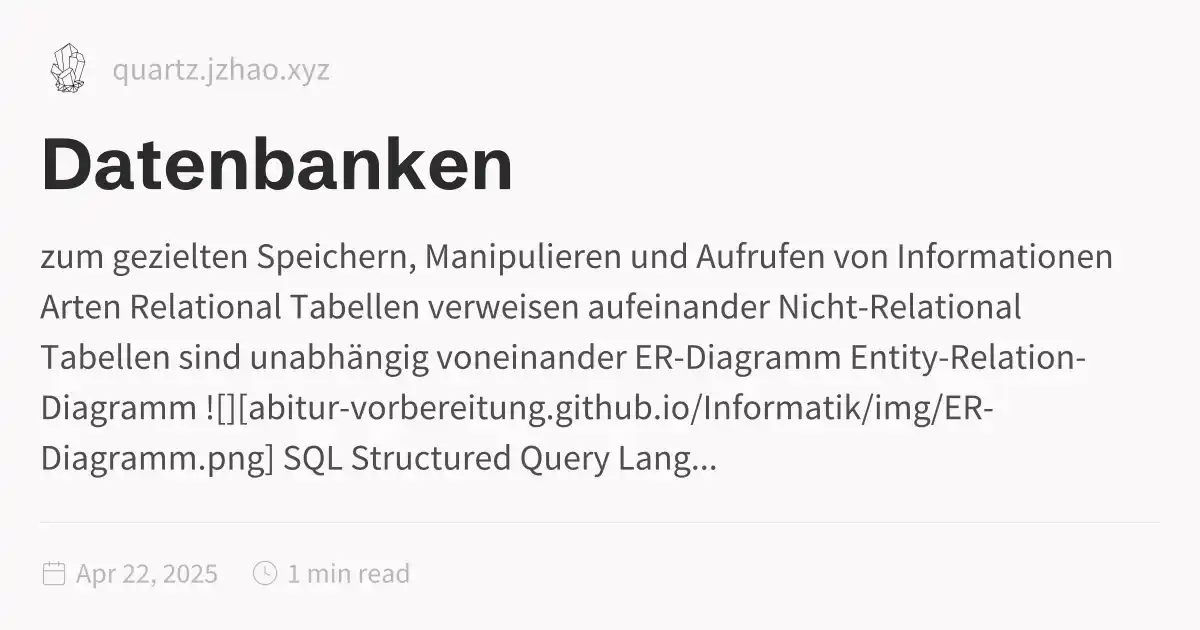
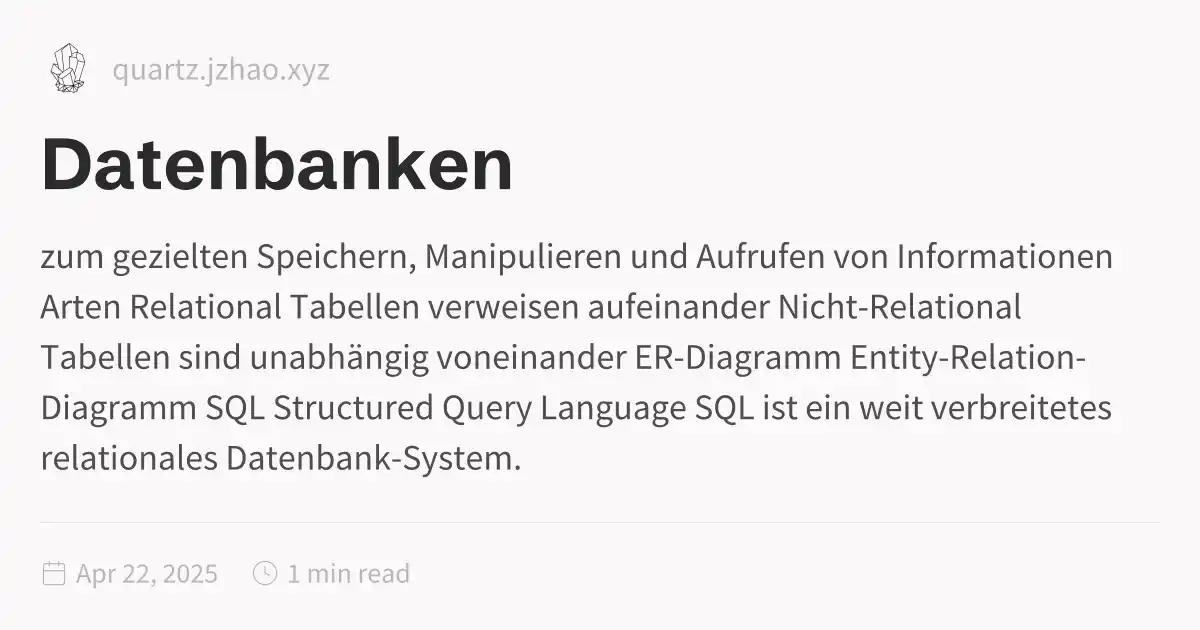
update

Changed region(s): [[0.0308, 0.6032, 0.925, 0.754]]

diff --git a/Angewandte-Informatik/index.html b/Angewandte-Informatik/index.html
@@ -116,6 +116,6 @@ pre:hover > .expand-button {
   padding: 0 12px;
   font-size: 14px;
 }
[2 lines of base64/hex data omitted]
 </script><script type="module">function f(i,e){if(!i)return;function r(o){o.target===this&&(o.preventDefault(),o.stopPropagation(),e())}function t(o){o.key.startsWith("Esc")&&(o.preventDefault(),e())}i?.addEventListener("click",r),window.addCleanup(()=>i?.removeEventListener("click",r)),document.addEventListener("keydown",t),window.addCleanup(()=>document.removeEventListener("keydown",t))}function y(i){for(;i.firstChild;)i.removeChild(i.firstChild)}var h=class{constructor(e,r){this.container=e;this.content=r;this.setupEventListeners(),this.setupNavigationControls(),this.resetTransform()}isDragging=!1;startPan={x:0,y:0};currentPan={x:0,y:0};scale=1;MIN_SCALE=.5;MAX_SCALE=3;cleanups=[];setupEventListeners(){let e=this.onMouseDown.bind(this),r=this.onMouseMove.bind(this),t=this.onMouseUp.bind(this),o=this.resetTransform.bind(this);this.container.addEventListener("mousedown",e),document.addEventListener("mousemove",r),document.addEventListener("mouseup",t),window.addEventListener("resize",o),this.cleanups.push(()=>this.container.removeEventListener("mousedown",e),()=>document.removeEventListener("mousemove",r),()=>document.removeEventListener("mouseup",t),()=>window.removeEventListener("resize",o))}cleanup(){for(let e of this.cleanups)e()}setupNavigationControls(){let e=document.createElement("div");e.className="mermaid-controls";let r=this.createButton("+",()=>this.zoom(.1)),t=this.createButton("-",()=>this.zoom(-.1)),o=this.createButton("Reset",()=>this.resetTransform());e.appendChild(t),e.appendChild(o),e.appendChild(r),this.container.appendChild(e)}createButton(e,r){let t=document.createElement("button");return t.textContent=e,t.className="mermaid-control-button",t.addEventListener("click",r),window.addCleanup(()=>t.removeEventListener("click",r)),t}onMouseDown(e){e.button===0&&(this.isDragging=!0,this.startPan={x:e.clientX-this.currentPan.x,y:e.clientY-this.currentPan.y},this.container.style.cursor="grabbing")}onMouseMove(e){this.isDragging&&(e.preventDefault(),this.currentPan={x:e.clientX-this.startPan.x,y:e.clientY-this.startPan.y},this.updateTransform())}onMouseUp(){this.isDragging=!1,this.container.style.cursor="grab"}zoom(e){let r=Math.min(Math.max(this.scale+e,this.MIN_SCALE),this.MAX_SCALE),t=this.content.getBoundingClientRect(),o=t.width/2,n=t.height/2,c=r-this.scale;this.currentPan.x-=o*c,this.currentPan.y-=n*c,this.scale=r,this.updateTransform()}updateTransform(){this.content.style.transform=`translate(${this.currentPan.x}px, ${this.currentPan.y}px) scale(${this.scale})`}resetTransform(){this.scale=1;let e=this.content.querySelector("svg");this.currentPan={x:e.getBoundingClientRect().width/2,y:e.getBoundingClientRect().height/2},this.updateTransform()}},C=["--secondary","--tertiary","--gray","--light","--lightgray","--highlight","--dark","--darkgray","--codeFont"],E;document.addEventListener("nav",async()=>{let e=document.querySelector(".center").querySelectorAll("code.mermaid");if(e.length===0)return;E||=await import("https://cdnjs.cloudflare.com/ajax/libs/mermaid/11.4.0/mermaid.esm.min.mjs");let r=E.default,t=new WeakMap;for(let n of e)t.set(n,n.innerText);async function o(){for(let s of e){s.removeAttribute("data-processed");let a=t.get(s);a&&(s.innerHTML=a)}let n=C.reduce((s,a)=>(s[a]=window.getComputedStyle(document.documentElement).getPropertyValue(a),s),{}),c=document.documentElement.getAttribute("saved-theme")==="dark";r.initialize({startOnLoad:!1,securityLevel:"loose",theme:c?"dark":"base",themeVariables:{fontFamily:n["--codeFont"],primaryColor:n["--light"],primaryTextColor:n["--darkgray"],primaryBorderColor:n["--tertiary"],lineColor:n["--darkgray"],secondaryColor:n["--secondary"],tertiaryColor:n["--tertiary"],clusterBkg:n["--light"],edgeLabelBackground:n["--highlight"]}}),await r.run({nodes:e})}await o(),document.addEventListener("themechange",o),window.addCleanup(()=>document.removeEventListener("themechange",o));for(let n=0;n<e.length;n++){let v=function(){let g=l.querySelector("#mermaid-space"),m=l.querySelector(".mermaid-content");if(!m)return;y(m);let w=c.querySelector("svg").cloneNode(!0);m.appendChild(w),l.classList.add("active"),g.style.cursor="grab",u=new h(g,m)},M=function(){l.classList.remove("active"),u?.cleanup(),u=null},c=e[n],s=c.parentElement,a=s.querySelector(".clipboard-button"),d=s.querySelector(".expand-button"),p=window.getComputedStyle(a),L=a.offsetWidth+parseFloat(p.marginLeft||"0")+parseFloat(p.marginRight||"0");d.style.right=`calc(${L}px + 0.3rem)`,s.prepend(d);let l=s.querySelector("#mermaid-container");if(!l)return;let u=null;d.addEventListener("click",v),f(l,M),window.addCleanup(()=>{u?.cleanup(),d.removeEventListener("click",v)})}});
 </script><script src="https://cdn.jsdelivr.net/npm/katex@0.16.11/dist/contrib/copy-tex.min.js" type="application/javascript"></script><script src="../postscript.js" type="module"></script></html>

diff --git a/Angewandte-Informatik/Datenbanken.html b/Angewandte-Informatik/Datenbanken.html
@@ -1,5 +1,5 @@
 <!DOCTYPE html>
-<html lang="en"><head><title>Datenbanken</title><meta charset="utf-8"/><link rel="preconnect" href="https://fonts.googleapis.com"/><link rel="preconnect" href="https://fonts.gstatic.com"/><link rel="stylesheet" href="https://fonts.googleapis.com/css2?family=Schibsted Grotesk:wght@400;700&amp;family=Source Sans Pro:ital,wght@0,400;0,600;1,400;1,600&amp;family=IBM Plex Mono:wght@400;600&amp;display=swap"/><link rel="preconnect" href="https://cdnjs.cloudflare.com" crossorigin="anonymous"/><meta name="viewport" content="width=device-width, initial-scale=1.0"/><meta name="og:site_name" content="Quartz 4"/><meta property="og:title" content="Datenbanken"/><meta property="og:type" content="website"/><meta name="twitter:card" content="summary_large_image"/><meta name="twitter:title" content="Datenbanken"/><meta name="twitter:description" content="zum gezielten Speichern, Manipulieren und Aufrufen von Informationen Arten Relational Tabellen verweisen aufeinander Nicht-Relational Tabellen sind unabhängig voneinander ER-Diagramm Entity-Relation-Diagramm ![][abitur-vorbereitung.github.io/Informatik/img/ER-Diagramm.png] SQL Structured Query Lang..."/><meta property="og:description" content="zum gezielten Speichern, Manipulieren und Aufrufen von Informationen Arten Relational Tabellen verweisen aufeinander Nicht-Relational Tabellen sind unabhängig voneinander ER-Diagramm Entity-Relation-Diagramm ![][abitur-vorbereitung.github.io/Informatik/img/ER-Diagramm.png] SQL Structured Query Lang..."/><meta property="og:image:alt" content="zum gezielten Speichern, Manipulieren und Aufrufen von Informationen Arten Relational Tabellen verweisen aufeinander Nicht-Relational Tabellen sind unabhängig voneinander ER-Diagramm Entity-Relation-Diagramm ![][abitur-vorbereitung.github.io/Informatik/img/ER-Diagramm.png] SQL Structured Query Lang..."/><meta property="twitter:domain" content="quartz.jzhao.xyz"/><meta property="og:url" content="https://quartz.jzhao.xyz/Angewandte-Informatik/Datenbanken"/><meta property="twitter:url" content="https://quartz.jzhao.xyz/Angewandte-Informatik/Datenbanken"/><link rel="icon" href="../static/icon.png"/><meta name="description" content="zum gezielten Speichern, Manipulieren und Aufrufen von Informationen Arten Relational Tabellen verweisen aufeinander Nicht-Relational Tabellen sind unabhängig voneinander ER-Diagramm Entity-Relation-Diagramm ![][abitur-vorbereitung.github.io/Informatik/img/ER-Diagramm.png] SQL Structured Query Lang..."/><meta name="generator" content="Quartz"/><link href="../index.css" rel="stylesheet" type="text/css" spa-preserve/><style>.expand-button {
+<html lang="en"><head><title>Datenbanken</title><meta charset="utf-8"/><link rel="preconnect" href="https://fonts.googleapis.com"/><link rel="preconnect" href="https://fonts.gstatic.com"/><link rel="stylesheet" href="https://fonts.googleapis.com/css2?family=Schibsted Grotesk:wght@400;700&amp;family=Source Sans Pro:ital,wght@0,400;0,600;1,400;1,600&amp;family=IBM Plex Mono:wght@400;600&amp;display=swap"/><link rel="preconnect" href="https://cdnjs.cloudflare.com" crossorigin="anonymous"/><meta name="viewport" content="width=device-width, initial-scale=1.0"/><meta name="og:site_name" content="Quartz 4"/><meta property="og:title" content="Datenbanken"/><meta property="og:type" content="website"/><meta name="twitter:card" content="summary_large_image"/><meta name="twitter:title" content="Datenbanken"/><meta name="twitter:description" content="zum gezielten Speichern, Manipulieren und Aufrufen von Informationen Arten Relational Tabellen verweisen aufeinander Nicht-Relational Tabellen sind unabhängig voneinander ER-Diagramm Entity-Relation-Diagramm SQL Structured Query Language SQL ist ein weit verbreitetes relationales Datenbank-System."/><meta property="og:description" content="zum gezielten Speichern, Manipulieren und Aufrufen von Informationen Arten Relational Tabellen verweisen aufeinander Nicht-Relational Tabellen sind unabhängig voneinander ER-Diagramm Entity-Relation-Diagramm SQL Structured Query Language SQL ist ein weit verbreitetes relationales Datenbank-System."/><meta property="og:image:alt" content="zum gezielten Speichern, Manipulieren und Aufrufen von Informationen Arten Relational Tabellen verweisen aufeinander Nicht-Relational Tabellen sind unabhängig voneinander ER-Diagramm Entity-Relation-Diagramm SQL Structured Query Language SQL ist ein weit verbreitetes relationales Datenbank-System."/><meta property="twitter:domain" content="quartz.jzhao.xyz"/><meta property="og:url" content="https://quartz.jzhao.xyz/Angewandte-Informatik/Datenbanken"/><meta property="twitter:url" content="https://quartz.jzhao.xyz/Angewandte-Informatik/Datenbanken"/><link rel="icon" href="../static/icon.png"/><meta name="description" content="zum gezielten Speichern, Manipulieren und Aufrufen von Informationen Arten Relational Tabellen verweisen aufeinander Nicht-Relational Tabellen sind unabhängig voneinander ER-Diagramm Entity-Relation-Diagramm SQL Structured Query Language SQL ist ein weit verbreitetes relationales Datenbank-System."/><meta name="generator" content="Quartz"/><link href="../index.css" rel="stylesheet" type="text/css" spa-preserve/><style>.expand-button {
   position: absolute;
   display: flex;
   float: right;
@@ -116,7 +116,7 @@ pre:hover > .expand-button {
   padding: 0 12px;
   font-size: 14px;
 }
[2 lines of base64/hex data omitted]
 <li>zum gezielten Speichern, Manipulieren und Aufrufen von Informationen</li>
 </ul>
 <hr/>
@@ -133,7 +133,7 @@ pre:hover > .expand-button {
 <h1 id="er-diagramm">ER-Diagramm<a role="anchor" aria-hidden="true" tabindex="-1" data-no-popover="true" href="#er-diagramm" class="internal"><svg width="18" height="18" viewBox="0 0 24 24" fill="none" stroke="currentColor" stroke-width="2" stroke-linecap="round" stroke-linejoin="round"><path d="M10 13a5 5 0 0 0 7.54.54l3-3a5 5 0 0 0-7.07-7.07l-1.72 1.71"></path><path d="M14 11a5 5 0 0 0-7.54-.54l-3 3a5 5 0 0 0 7.07 7.07l1.71-1.71"></path></svg></a></h1>
 <ul>
 <li>Entity-Relation-Diagramm
-![][<a href="https://abitur-vorbereitung.github.io/Informatik/img/ER-Diagramm.png" class="external">https://abitur-vorbereitung.github.io/Informatik/img/ER-Diagramm.png<svg aria-hidden="true" class="external-icon" style="max-width:0.8em;max-height:0.8em;" viewBox="0 0 512 512"><path d="M320 0H288V64h32 82.7L201.4 265.4 178.7 288 224 333.3l22.6-22.6L448 109.3V192v32h64V192 32 0H480 320zM32 32H0V64 480v32H32 456h32V480 352 320H424v32 96H64V96h96 32V32H160 32z"></path></svg></a>]</li>
+<img src=".././img/ER-Diagramm.png" alt/></li>
 </ul>
 <hr/>
 <h1 id="sql">SQL<a role="anchor" aria-hidden="true" tabindex="-1" data-no-popover="true" href="#sql" class="internal"><svg width="18" height="18" viewBox="0 0 24 24" fill="none" stroke="currentColor" stroke-width="2" stroke-linecap="round" stroke-linejoin="round"><path d="M10 13a5 5 0 0 0 7.54.54l3-3a5 5 0 0 0-7.07-7.07l-1.72 1.71"></path><path d="M14 11a5 5 0 0 0-7.54-.54l-3 3a5 5 0 0 0 7.07 7.07l1.71-1.71"></path></svg></a></h1>
